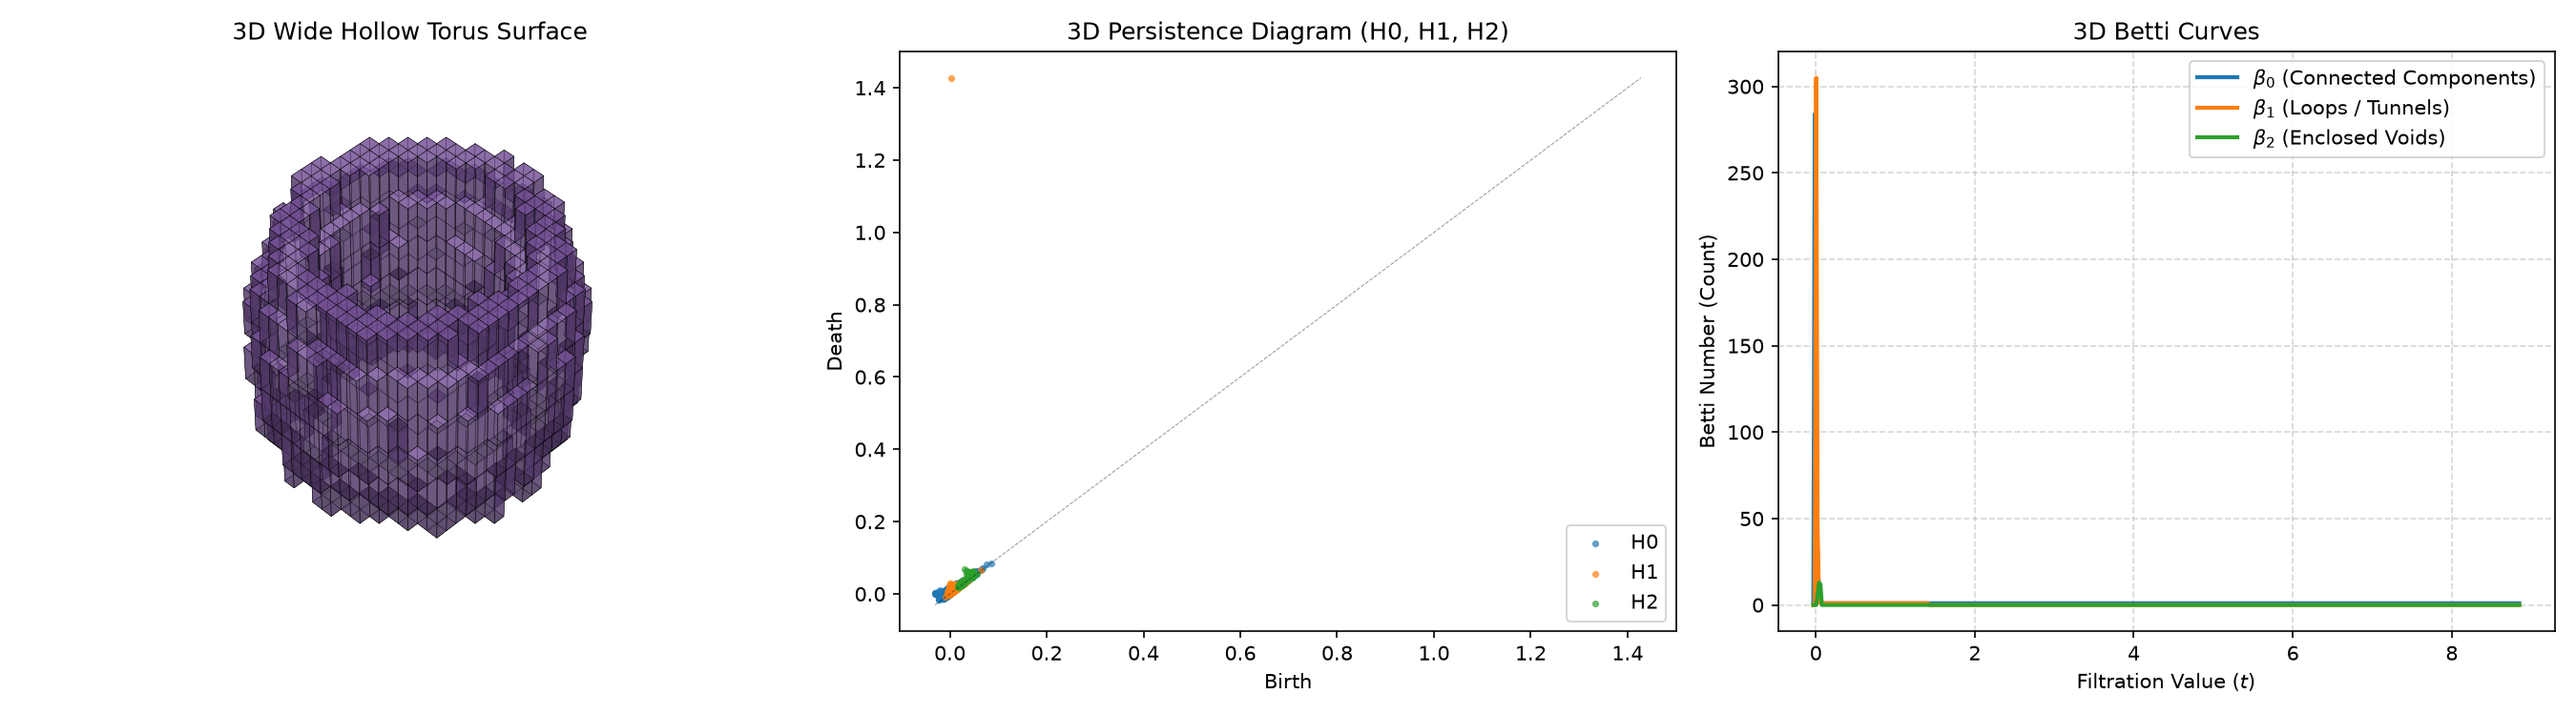
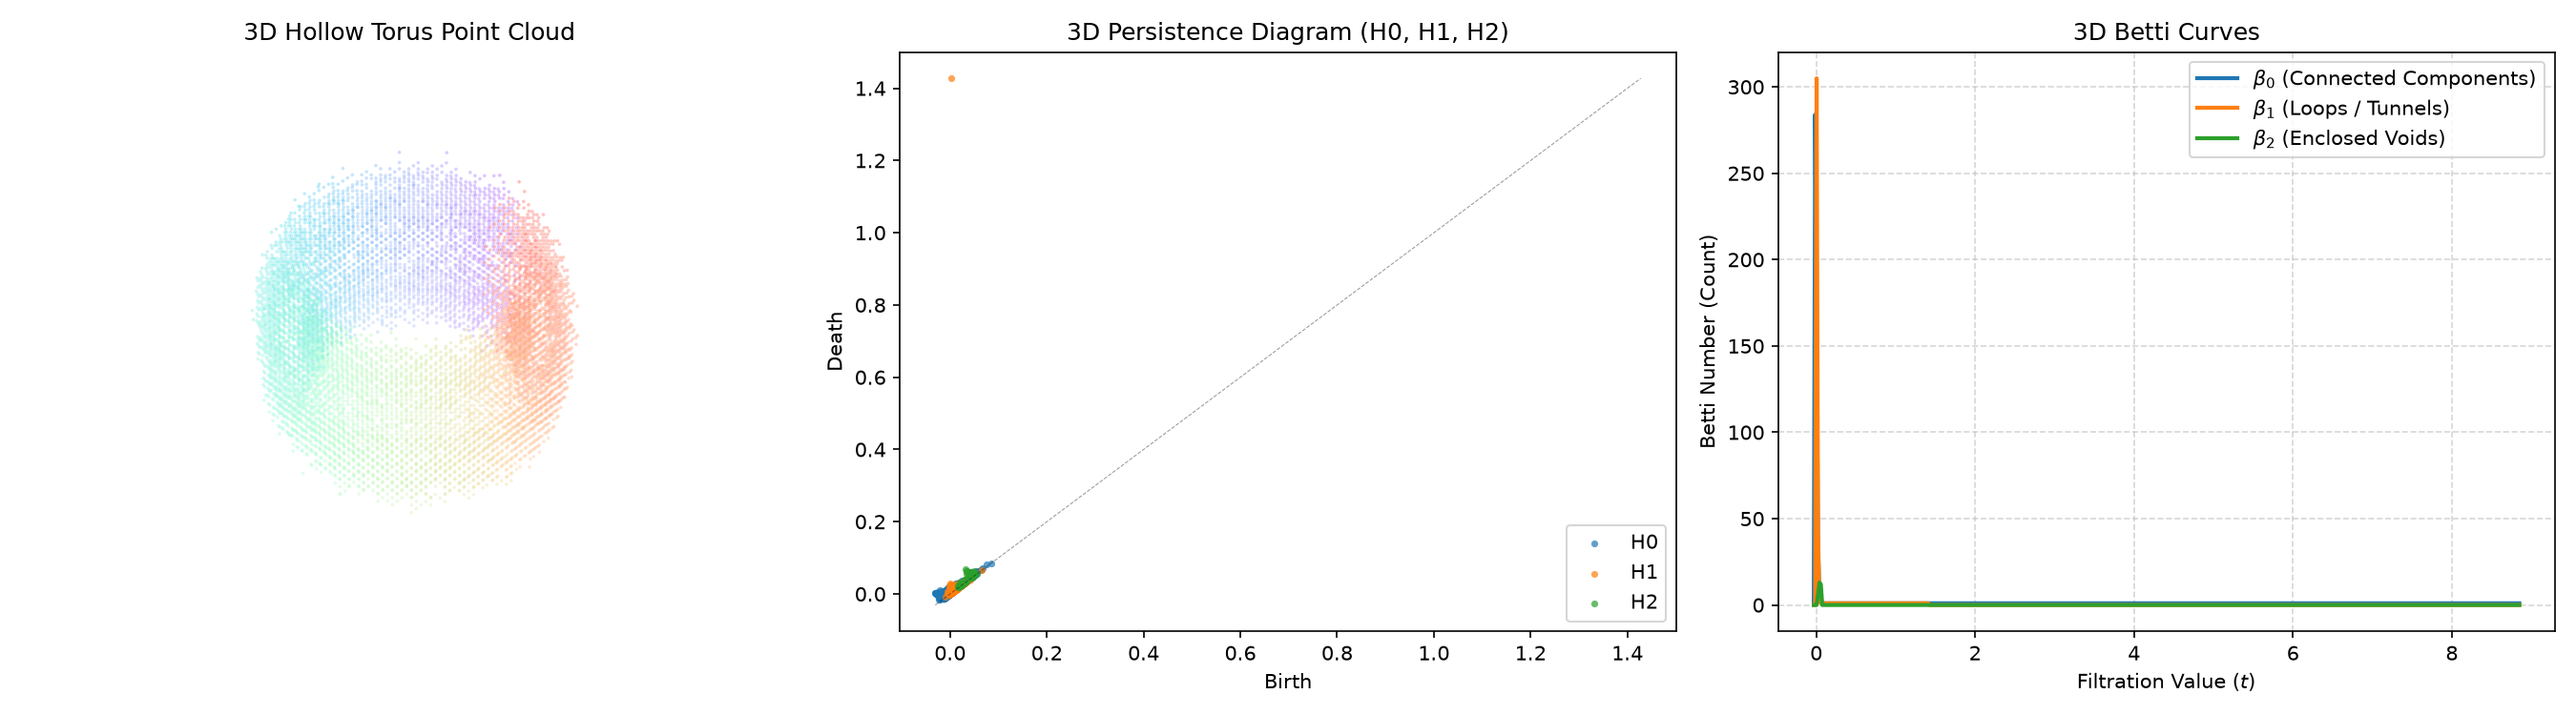
docs: visualize 3D torus as a rainbow-colored point cloud

diff --git a/README.md b/README.md
@@ -57,7 +57,7 @@ The following figure displays a complete 3-dimensional Topological Data Analysis
 ![3D Torus TDA Pipeline](doc/images/torus_3d_tda.png)
 
 ### Description of the Panels
-1.  **3D Hollow Torus Surface**: Shows the 3D voxel contour representation of the hollow torus shell of major radius $R=1.5$ and thin minor radius $r=0.25$, visualized under a 45° perspective. The shell has a low filtration value ($\approx 0.0$), while the inside of the tube, the central hole, and the exterior space have higher values ($\ge 1.0$).
+1.  **3D Hollow Torus Point Cloud**: Shows the 3D point cloud representation of the hollow torus shell of major radius $R=1.5$ and thin minor radius $r=0.25$, visualized under a 45° perspective. The coordinates are colored continuously around the ring using a **rainbow color palette** mapped to the toroidal sweep angle. The shell has a low filtration value ($\approx 0.0$), while the inside of the tube, the central hole, and the exterior space have higher values ($\ge 1.0$).
 2.  **3D Persistence Diagram (H0, H1, H2)**: Computes the births and deaths of topological structures across all three dimensions simultaneously:
     *   **$H_0$ (Connected Components)**: Born along the low-value torus shell valley. $1$ robust component (born at $\approx 0.0$, dying at $+\infty$) persists.
     *   **$H_1$ (Loops / Tunnels)**: Two distinct topological tunnels are born at $t \approx 0.0$: one loop wraps around the main ring, and another wraps inside the tube.
